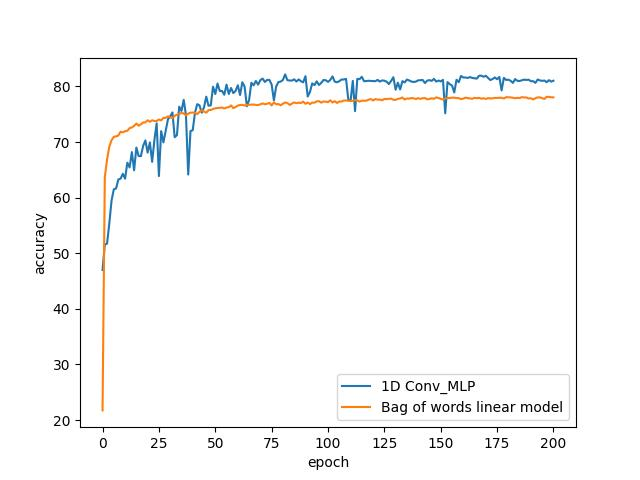
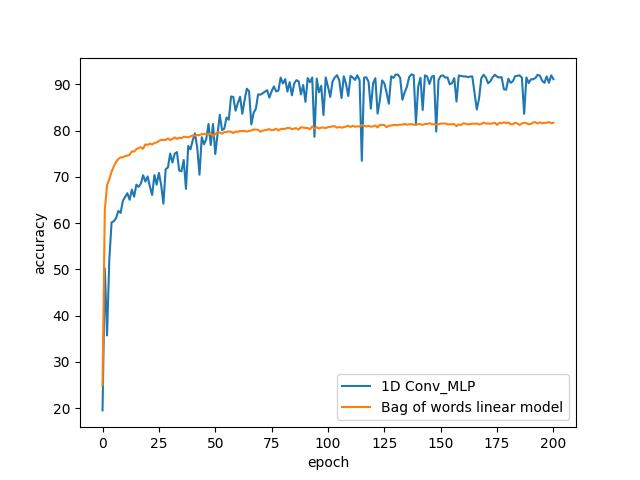
Accidentally trained on the test set (forgot replace=False when randomly picking training/testing split). Results weren't impacted because fixing the bug also resulted technically in training on a larger data set.

diff --git a/models/model_handler.py b/models/model_handler.py
@@ -18,7 +18,7 @@ class Text_Classification_Handler:
         self.training_percent = training_percent
         self.batch_size = batch_size
 
-        training_indices = np.random.choice(x.shape[0],size = int(x.shape[0]*training_percent))
+        training_indices = np.random.choice(x.shape[0],size = int(x.shape[0]*training_percent),replace=False)
 
         self.train_x = self.x[training_indices,:]
         self.train_y = self.y[training_indices]
